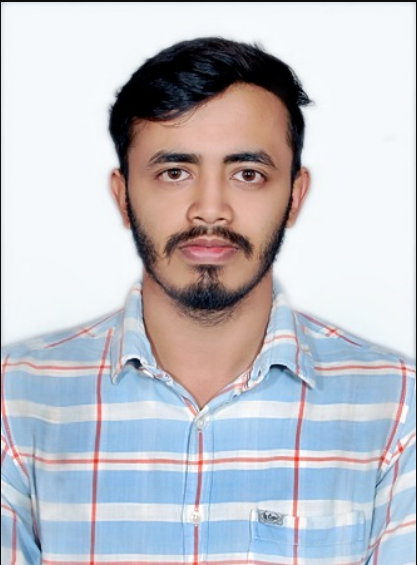
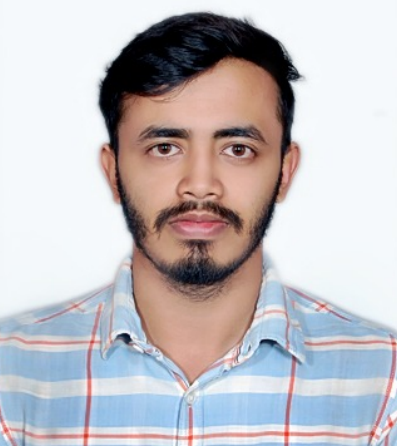
fixed hero section visibility bug, accordion b/l mode transition-badge sections revamped/fixed, button solved, image updated...colors revamped to more-smoother textures, end section typography fixes in styles.css file

diff --git a/style.css b/style.css
@@ -1,20 +1,19 @@
-  /* 
-  =========================================
+  /* =========================================
   GLOBAL CENTRAL VARIABLE SYSTEM CONTROLLERS
   =========================================
-  Stores custom hexadecimal keys centrally so color configurations remain manageable.
+  Premium Slate & Sky Blue palette tailored for an enterprise tech look.
 */
 :root {
-  --bg-dark-base: #0f111a;       /* Deep baseline canvas palette */
-  --bg-dark-alt: #151824;        /* Split section variance shading token */
-  --bg-dark-card: #1a1d2e;       /* Card component baseline surfaces */
-  --color-accent-neon: #00d2d3;  /* Core bright snappy cyber themed highlight accent */
-  --border-color-dark: #22263f;  /* Understated dark mode element borders */
+  /* Dark Mode Palette Core */
+  --bg-dark-base: #0f172a;       /* Deep Slate Blue Canvas */
+  --bg-dark-alt: #1e293b;        /* Split section variance shading token */
+  --bg-dark-card: #1e293b;       /* Card and accordion surface surfaces */
+  --color-accent-neon: #38bdf8;  /* Professional Sky Blue Accent */
+  --border-color-dark: #334155;  /* Understated slate element borders */
   --transition-speed: 0.25s;     /* Standardized speed mapping variables for physics animations */
 }
 
-/* 
-  Global Anchor Adjustments prevents browser transitions from skipping jarringly, 
+/* Global Anchor Adjustments prevents browser transitions from skipping jarringly, 
   and offsets heights cleanly against headers 
 */
 html {
@@ -22,16 +21,19 @@ html {
   scroll-padding-top: 75px; /* Matches exact vertical navbar footprints */
 }
 
-/* 
-  Ensures layout wrapper surfaces inherit the correct background token explicitly 
+/* Ensures layout wrapper surfaces inherit the correct background token explicitly 
 */
 body.dark-mode {
   background-color: var(--bg-dark-base);
-  color: #f1f2f6;
+  color: #f8fafc;
 }
 
-/* 
-  =========================================
+/* Hard override for text utility states inside dark mode elements */
+body.dark-mode .text-muted {
+  color: #94a3b8 !important;   /* Soft slate gray for highly readable descriptions */
+}
+
+/* =========================================
   TYPOGRAPHY & COMPONENT INTERACTIVE STYLINGS
   =========================================
 */
@@ -43,12 +45,12 @@ body.dark-mode {
 .btn-accent {
   background-color: var(--color-accent-neon);
   border-color: var(--color-accent-neon);
-  color: #0f111a;
+  color: #0f172a;
 }
 .btn-accent:hover {
-  background-color: #00b3b4; /* Slightly darkened shade for hover contrast */
-  border-color: #00b3b4;
-  color: #0f111a;
+  background-color: #0ea5e9; /* Slightly darkened slate-sky for hover contrast */
+  border-color: #0ea5e9;
+  color: #ffffff;
 }
 
 /* Outline Interactive Action Button Rules */
@@ -58,28 +60,26 @@ body.dark-mode {
 }
 .btn-outline-accent:hover {
   background-color: var(--color-accent-neon);
-  color: #0f111a;
+  color: #0f172a;
 }
 
-/* 
-  =========================================
+/* =========================================
   NAVBAR TRANSBORDER MECHANICS & OVERLAY BLURS
   =========================================
 */
 .navbar-custom {
-  background-color: rgba(15, 17, 26, 0.9) !important; /* Semi-opaque tracking hex alpha channel */
+  background-color: rgba(15, 23, 42, 0.85) !important; /* Semi-opaque tracking hex alpha channel */
   backdrop-filter: blur(10px);                        /* Native browser glassmorphism styling mechanics blur filters */
   border-bottom: 1px solid var(--border-color-dark);
 }
 
-/* 
-  =========================================
+/* =========================================
   SECTION BLOCKS SCAFFOLDING VARIABLES
   =========================================
 */
 .hero-section {
-  min-height: 85vh; /* Scales view container footprint to 85% of dynamic viewport viewport height */
-  background: radial-gradient(circle at top right, #1a1e36 0%, var(--bg-dark-base) 70%); /* Dynamic spatial depth gradient tracking */
+  min-height: 85vh; /* Scales view container footprint to 85% of dynamic viewport height */
+  background: radial-gradient(circle at top right, #1e293b 0%, var(--bg-dark-base) 70%); /* Dynamic spatial depth gradient tracking */
   padding: 4rem 0;
 }
 
@@ -120,12 +120,11 @@ body.dark-mode {
   object-fit: cover;    /* Centers and scales graphics inside the image container dimensions */
 }
 
-/* 
-  =========================================
+/* =========================================
   DYNAMIC CARD DEPLOYMENT INTERACTIVE FILTERS
   =========================================
 */
-.dynamic-card, .cert-card {
+.dynamic-card, .cert-card, .accordion-item {
   background-color: var(--bg-dark-card) !important;
   border: 1px solid var(--border-color-dark) !important;
   /* cubic-bezier transition curves deliver punchier micro-interactions on hover */
@@ -137,13 +136,13 @@ body.dark-mode {
 /* Elevates card objects up slightly and creates a bright neon glow matching your theme variables */
 .dynamic-card:hover, .cert-card:hover {
   transform: translateY(-5px);
-  box-shadow: 0 10px 20px rgba(0, 210, 211, 0.15) !important; /* Alpha maps neon blue drop glows */
+  box-shadow: 0 10px 25px rgba(56, 189, 248, 0.12) !important; /* Alpha maps sky blue drop glows */
   border-color: var(--color-accent-neon) !important;
 }
 
 /* Clean dashed tracking outline helper states for ongoing work objects */
 .border-dashed {
-  border: 2px dashed #3a3f68 !important;
+  border: 2px dashed #334155 !important;
   background-color: transparent !important;
 }
 
@@ -163,36 +162,137 @@ body.dark-mode {
   transform: scale(1.04);
 }
 
-/* 
-  =========================================
+/* =========================================
   LIGHT THEME REGRESSION LOGICAL INTERFACES
   =========================================
-  Applies overrides only when '.dark-mode' class is explicitly stripped out by JS scripts.
+  Applies overrides cleanly only when '.dark-mode' class is explicitly stripped out by JS scripts.
 */
 body:not(.dark-mode) {
-  background-color: #f8f9fa;
-  color: #2d3436;
+  background-color: #f8fafc;     /* Clean light off-white slate base */
+  color: #0f172a;                /* Deep slate for crisp text reading */
 }
+
+body:not(.dark-mode) .text-muted {
+  color: #64748b !important;     /* Mid-tone slate gray for accessible light mode body copy */
+}
+
 body:not(.dark-mode) .navbar-custom {
-  background-color: rgba(255, 255, 255, 0.9) !important;
-  border-bottom: 1px solid #dfe6e9;
+  background-color: rgba(255, 255, 255, 0.85) !important;
+  border-bottom: 1px solid #e2e8f0;
 }
+
 body:not(.dark-mode) .bg-alt-block {
-  background-color: #f1f2f6 !important;
+  background-color: #f1f5f9 !important; /* Soft gray-blue background split */
 }
+
 body:not(.dark-mode) .dynamic-card, 
 body:not(.dark-mode) .cert-card,
 body:not(.dark-mode) .profile-card,
-body:not(.dark-mode) .bg-card-dark {
+body:not(.dark-mode) .bg-card-dark,
+body:not(.dark-mode) .accordion-item {
   background-color: #ffffff !important;
   border-color: #e2e8f0 !important;
 }
+
 body:not(.dark-mode) .border-custom,
 body:not(.dark-mode) .image-box {
   border-color: #e2e8f0 !important;
 }
+
 body:not(.dark-mode) .dynamic-card:hover, 
 body:not(.dark-mode) .cert-card:hover {
-  box-shadow: 0 10px 20px rgba(0, 0, 0, 0.08) !important;
-  border-color: var(--color-accent-neon) !important;
+  box-shadow: 0 10px 20px rgba(0, 0, 0, 0.06) !important;
+  border-color: #0284c7 !important;
+}
+
+/* Adjust button states dynamically in Light mode so it doesn't look washed out */
+body:not(.dark-mode) .btn-outline-accent {
+  color: #0284c7;                /* Darker sky blue for visibility compliance */
+  border-color: #0284c7;
+}
+
+body:not(.dark-mode) .btn-outline-accent:hover {
+  background-color: #0284c7;
+  color: #ffffff;
+}
+
+/* =========================================
+   ACCORDION MUTATION STYLES (DARK & LIGHT)
+   =========================================
+*/
+
+/* --- DARK MODE SETTINGS (Default state based on your body class) --- */
+body.dark-mode .accordion-item {
+  background-color: var(--bg-dark-card) !important;
+  border: 1px solid var(--border-color-dark) !important;
+}
+
+body.dark-mode .accordion-button {
+  background-color: var(--bg-dark-card) !important;
+  color: #f8fafc !important;
+}
+
+/* Handles arrow tinting when the panel is collapsed in dark mode */
+body.dark-mode .accordion-button::after {
+  filter: invert(1) grayscale(1) brightness(2);
+}
+
+/* Styles the active, open accordion button in dark mode */
+body.dark-mode .accordion-button:not(.collapsed) {
+  background-color: #1e293b !important;
+  color: var(--color-accent-neon) !important;
+  box-shadow: inset 0 -1px 0 rgba(255, 255, 255, 0.1);
+}
+
+body.dark-mode .accordion-body {
+  background-color: #131d31 !important; /* Slightly darker body backdrop */
+  color: #f8fafc;
+}
+
+
+/* --- LIGHT MODE OVERRIDES --- */
+body:not(.dark-mode) .accordion-item {
+  background-color: #ffffff !important;
+  border: 1px solid #e2e8f0 !important;
+}
+
+body:not(.dark-mode) .accordion-button {
+  background-color: #ffffff !important;
+  color: #0f172a !important;
+}
+
+/* Resets arrow filter mechanics for clear visibility on white layouts */
+body:not(.dark-mode) .accordion-button::after {
+  filter: none;
+}
+
+/* Styles the active, open accordion button in light mode */
+body:not(.dark-mode) .accordion-button:not(.collapsed) {
+  background-color: #f1f5f9 !important;
+  color: #0284c7 !important; /* Professional deeper sky blue for light mode clarity */
+  box-shadow: inset 0 -1px 0 rgba(0, 0, 0, 0.1);
+}
+
+body:not(.dark-mode) .accordion-body {
+  background-color: #f8fafc !important;
+  color: #0f172a;
+}
+
+/* =========================================
+   HERO CANVAS LIGHT THEME RESPONSIVENESS FIX
+   =========================================
+*/
+body:not(.dark-mode) .hero-section {
+  /* Shifts the background to a clean, bright gradient when light mode is selected */
+  background: radial-gradient(circle at top right, #e2e8f0 0%, #f8fafc 70%) !important;
+}
+
+body:not(.dark-mode) .hero-section p.text-secondary {
+  /* Ensures any auxiliary muted paragraph or subtitle tags switch to readable gray */
+  color: #475569 !important;
+}
+
+body:not(.dark-mode) .hero-section .text-light {
+  /* Forces the running Typed.js dynamic text array to render in a deep slate tone */
+  color: #1e293b !important;
 }

diff --git a/3.html b/3.html
@@ -140,60 +140,60 @@
         <div class="container">
             <h2 class="section-title text-center mb-5">Academic Record</h2>
             
-            <div class="accordion shadow-sm border border-custom" id="academicsAccordion">
+            <div class="accordion shadow-sm" id="academicsAccordion">
                 
-                <div class="accordion-item bg-dark border-bottom border-custom">
+                <div class="accordion-item">
                     <h2 class="accordion-header" id="headingMCA">
-                        <button class="accordion-button fw-bold bg-dark text-light" type="button" data-bs-toggle="collapse" data-bs-target="#collapseMCA" aria-expanded="true" aria-controls="collapseMCA">
+                        <button class="accordion-button fw-bold" type="button" data-bs-toggle="collapse" data-bs-target="#collapseMCA" aria-expanded="true" aria-controls="collapseMCA">
                             2021 - 2023 &nbsp;|&nbsp; Masters in Computer Application (MCA)
                         </button>
                     </h2>
                     <div id="collapseMCA" class="accordion-collapse collapse show" aria-labelledby="headingMCA" data-bs-parent="#academicsAccordion">
-                        <div class="accordion-body bg-dark text-white">
-                            <span class="badge bg-success mb-2 fs-6 fw-bold">75.11% Aggregate (CGPA 8.05)</span>
-                            <p class="mb-0 text-white-50">Savitribai Phule Pune University &bull; <em>D.Y Patil Institute of Management and Computer Applications, Akurdi, Pune.</em></p>
+                        <div class="accordion-body">
+                            <span class="badge bg-success text-white mb-2 fs-6 fw-bold">75.11% Aggregate (CGPA 8.05)</span>
+                            <p class="mb-0 text-muted">Savitribai Phule Pune University &bull; <em>D.Y Patil Institute of Management and Computer Applications, Akurdi, Pune.</em></p>
                         </div>
                     </div>
                 </div>
 
-                <div class="accordion-item bg-dark border-bottom border-custom">
+                <div class="accordion-item">
                     <h2 class="accordion-header" id="headingBCA">
-                        <button class="accordion-button collapsed fw-bold bg-dark text-light" type="button" data-bs-toggle="collapse" data-bs-target="#collapseBCA" aria-expanded="false" aria-controls="collapseBCA">
+                        <button class="accordion-button collapsed fw-bold" type="button" data-bs-toggle="collapse" data-bs-target="#collapseBCA" aria-expanded="false" aria-controls="collapseBCA">
                             2018 - 2021 &nbsp;|&nbsp; BBA in Computer Application (Formerly BCA)
                         </button>
                     </h2>
                     <div id="collapseBCA" class="accordion-collapse collapse" aria-labelledby="headingBCA" data-bs-parent="#academicsAccordion">
-                        <div class="accordion-body bg-dark text-white">
-                            <span class="badge bg-success mb-2 fs-6 fw-bold">77.25% Aggregate</span>
-                            <p class="mb-0 text-white-50">Savitribai Phule Pune University &bull; <em>D.Y Patil College of Arts Commerce and Science, Pimpri, Pune.</em></p>
+                        <div class="accordion-body">
+                            <span class="badge bg-success text-white mb-2 fs-6 fw-bold">77.25% Aggregate</span>
+                            <p class="mb-0 text-muted">Savitribai Phule Pune University &bull; <em>D.Y Patil College of Arts Commerce and Science, Pimpri, Pune.</em></p>
                         </div>
                     </div>
                 </div>
 
-                <div class="accordion-item bg-dark border-bottom border-custom">
+                <div class="accordion-item">
                     <h2 class="accordion-header" id="headingHSC">
-                        <button class="accordion-button collapsed fw-bold bg-dark text-light" type="button" data-bs-toggle="collapse" data-bs-target="#collapseHSC" aria-expanded="false" aria-controls="collapseHSC">
+                        <button class="accordion-button collapsed fw-bold" type="button" data-bs-toggle="collapse" data-bs-target="#collapseHSC" aria-expanded="false" aria-controls="collapseHSC">
                             2018 &nbsp;|&nbsp; Higher Secondary Certificate (HSC)
                         </button>
                     </h2>
                     <div id="collapseHSC" class="accordion-collapse collapse" aria-labelledby="headingHSC" data-bs-parent="#academicsAccordion">
-                        <div class="accordion-body bg-dark text-white">
-                            <span class="badge bg-success text-dark mb-2 fs-6 fw-bold">54.46% Score</span>
-                            <p class="mb-0 text-white-50">Maharashtra State Board (English Medium) &bull; <em>Indrayani Mahavidyalaya, Talegaon Dabhade, Pune.</em></p>
+                        <div class="accordion-body">
+                            <span class="badge bg-secondary text-white mb-2 fs-6 fw-bold">54.46% Score</span>
+                            <p class="mb-0 text-muted">Maharashtra State Board (English Medium) &bull; <em>Indrayani Mahavidyalaya, Talegaon Dabhade, Pune.</em></p>
                         </div>
                     </div>
                 </div>
 
-                <div class="accordion-item bg-dark border-0">
+                <div class="accordion-item">
                     <h2 class="accordion-header" id="headingSSC">
-                        <button class="accordion-button collapsed fw-bold bg-dark text-light" type="button" data-bs-toggle="collapse" data-bs-target="#collapseSSC" aria-expanded="false" aria-controls="collapseSSC">
+                        <button class="accordion-button collapsed fw-bold" type="button" data-bs-toggle="collapse" data-bs-target="#collapseSSC" aria-expanded="false" aria-controls="collapseSSC">
                             2016 &nbsp;|&nbsp; Secondary School Certificate (SSC)
                         </button>
                     </h2>
                     <div id="collapseSSC" class="accordion-collapse collapse" aria-labelledby="headingSSC" data-bs-parent="#academicsAccordion">
-                        <div class="accordion-body bg-dark text-white">
-                            <span class="badge bg-success text-dark mb-2 fs-6 fw-bold">66.60% Score</span>
-                            <p class="mb-0 text-white-50">Maharashtra State Board (English Medium) &bull; <em>Jain English School, Talegaon Dabhade, Pune.</em></p>
+                        <div class="accordion-body">
+                            <span class="badge bg-secondary text-white mb-2 fs-6 fw-bold">66.60% Score</span>
+                            <p class="mb-0 text-muted">Maharashtra State Board (English Medium) &bull; <em>Jain English School, Talegaon Dabhade, Pune.</em></p>
                         </div>
                     </div>
                 </div>
